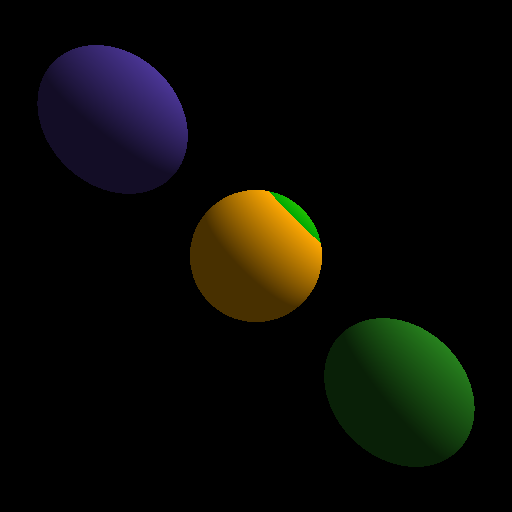
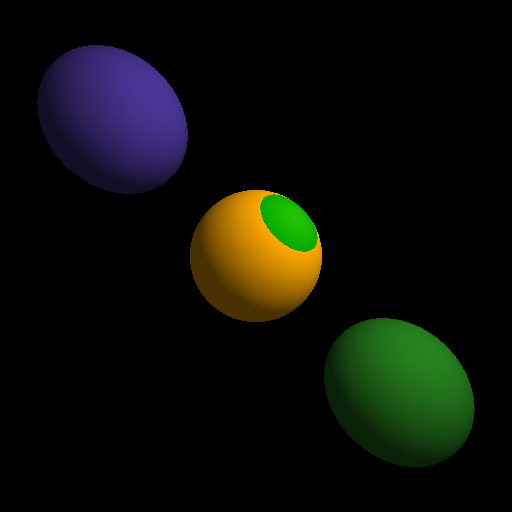
commit

Changed region(s): [[0.0938, 0.125, 0.375, 0.375], [0.6562, 0.625, 0.875, 0.875], [0.375, 0.375, 0.625, 0.625]]

diff --git a/raytracer/src/main/java/at/ac/univie/unet/a01638800/raytracer/phong/PhongShader.java b/raytracer/src/main/java/at/ac/univie/unet/a01638800/raytracer/phong/PhongShader.java
@@ -36,11 +36,10 @@ public class PhongShader {
         Vector pointToCameraVector = new Vector();
 
         Vector reflectionVector = normalVector.subtractVector(pointToLightVector);
-        reflectionVector = reflectionVector.scaleByFactor(pointToLightVector.dotProduct(normalVector));
-        reflectionVector = reflectionVector.scaleByFactor(2.0);
+        reflectionVector = reflectionVector.scaleByFactor(2.0 * normalVector.dotProduct(pointToLightVector));
         reflectionVector.normalize();
 
-        Color[] colorComponents = this.computeColorComponents(pointToLightVector, pointToCameraVector, reflectionVector);
+        Color[] colorComponents = this.computeColorComponents(normalVector, pointToLightVector, pointToCameraVector, reflectionVector);
 
         pixelColor[0] = colorComponents[0].getR() + colorComponents[1].getR();
         pixelColor[1] = colorComponents[0].getG() + colorComponents[1].getG();
@@ -57,6 +56,7 @@ public class PhongShader {
             ParallelLight parallelLight = (ParallelLight) this.lights.getLights().get(1);
 
             pointToLightVector = new Vector(
+                    intersection.getIntersectionPoint(),
                     Double.parseDouble(parallelLight.getDirection().getX()),
                     Double.parseDouble(parallelLight.getDirection().getY()),
                     Double.parseDouble(parallelLight.getDirection().getZ())
@@ -70,7 +70,7 @@ public class PhongShader {
         return pointToLightVector;
     }
 
-    private Color[] computeColorComponents(Vector pointToLightVector, Vector pointToCameraVector, Vector reflectionVector) {
+    private Color[] computeColorComponents(Vector normalVector, Vector pointToLightVector, Vector pointToCameraVector, Vector reflectionVector) {
         Color[] colorComponents = new Color[3];
 
         Color objectColor = new Color(
@@ -81,10 +81,9 @@ public class PhongShader {
 
         Color ambient = objectColor.multiplyByFactor(Double.parseDouble(this.materialSolid.getPhong().getKa()));
 
-        Color diffuse = objectColor.multiplyByFactor(Double.parseDouble(this.materialSolid.getPhong().getKd()));
-
-        double diffuseFactor = Math.max(0.0, pointToLightVector.dotProduct(this.intersection.getNormal()));
-        diffuse = diffuse.multiplyByFactor(diffuseFactor);
+        double diffuseFactor = Math.max(0.0, normalVector.dotProduct(pointToLightVector));
+        Color diffuse = objectColor.multiplyByFactor(diffuseFactor);
+        diffuse = diffuse.multiplyByFactor(Double.parseDouble(this.materialSolid.getPhong().getKd()));
 
         colorComponents[0] = ambient;
         colorComponents[1] = diffuse;

diff --git a/raytracer/src/main/java/at/ac/univie/unet/a01638800/raytracer/raytracedscene/RaytracedScene.java b/raytracer/src/main/java/at/ac/univie/unet/a01638800/raytracer/raytracedscene/RaytracedScene.java
@@ -180,8 +180,6 @@ public class RaytracedScene {
 
                     this.image.getRaster().setDataElements(x, y, mapCoordinatesToRgb(normalCoordinates));
                 }
-
-
             }
         }
     }
@@ -218,9 +216,9 @@ public class RaytracedScene {
         int[] rgbValues = new int[1];
 
         // color is initially already normalized between 0 and 1
-        int r = (int) (color[0] * 255.0);
-        int g = (int) (color[1] * 255.0);
-        int b = (int) (color[2] * 255.0);
+        int r = (int) (color[0] * 255.999);
+        int g = (int) (color[1] * 255.999);
+        int b = (int) (color[2] * 255.999);
 
         int rgb = r << 16 | g << 8 | b;
 

diff --git a/raytracer/src/main/java/at/ac/univie/unet/a01638800/raytracer/geometricobjects/Vector.java b/raytracer/src/main/java/at/ac/univie/unet/a01638800/raytracer/geometricobjects/Vector.java
@@ -23,6 +23,16 @@ public class Vector {
        this.coordinate = new Coordinate(xyzValues);
     }
 
+    public Vector(Point origin, double x, double y, double z) {
+        double[] xyzValues = new double[3];
+
+        xyzValues[0] = origin.getX() + x;
+        xyzValues[1] = origin.getY() + y;
+        xyzValues[2] = origin.getZ() + z;
+
+        this.coordinate = new Coordinate(xyzValues);
+    }
+
     public Vector(Coordinate coordinate) {
         this.coordinate = coordinate;
     }

diff --git a/raytracer/src/main/java/at/ac/univie/unet/a01638800/raytracer/geometricobjects/Normal.java b/raytracer/src/main/java/at/ac/univie/unet/a01638800/raytracer/geometricobjects/Normal.java
@@ -44,6 +44,10 @@ public class Normal {
         this.coordinate.getXyzValues()[2] = z;
     }
 
+    public double dotProduct(Vector vector) {
+        return (this.getX() * vector.getX() + this.getY() * vector.getY() + this.getZ() * vector.getZ());
+    }
+
     public Vector subtractVector(Vector vector) {
         return new Vector(this.getX() - vector.getX(), this.getY() - vector.getY(), this.getZ() - vector.getZ());
     }
